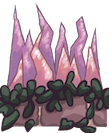
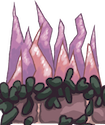
fixed spikes

diff --git a/core/src/entities/Spikes.java b/core/src/entities/Spikes.java
@@ -21,42 +21,49 @@ public class Spikes extends PolygonObstacle {
         int num;
         float dist;
         float sc;
+        float scy;
+        float scx;
         switch (direction) {
             case "up":
-                num = (int) (getWidth() * drawScale.x / texture.getRegionWidth());
+
+                scy = 1.2f * drawScale.y / texture.getRegionHeight();
+                num = (int) (getWidth() * drawScale.x / (texture.getRegionWidth() * scy));
                 dist = getWidth() * drawScale.x / num;
-                sc = dist / texture.getRegionWidth();
+                scx = dist / (texture.getRegionWidth() * scy);
                 num = num == 0 ? 1 : num;
                 for (int i = 0; i < num; i++)
                     canvas.draw(texture, Color.WHITE, 0, 0, getX() * drawScale.x + i * dist,
-                            getY() * drawScale.y, getAngle(), sc, .6f);
+                            getY() * drawScale.y, getAngle(), scx*scy, scy);
                 break;
             case "down":
-                num = (int) (getWidth() * drawScale.x / texture.getRegionWidth());
-                num = num == 0 ? 1 : num;
+                scy = 1.2f * drawScale.y / texture.getRegionHeight();
+                num = (int) (getWidth() * drawScale.x / (texture.getRegionWidth() * scy));
                 dist = getWidth() * drawScale.x / num;
-                sc = dist / texture.getRegionWidth();
+                scx = dist / (texture.getRegionWidth() * scy);
+                num = num == 0 ? 1 : num;
                 for (int i = 0; i < num; i++)
                     canvas.draw(texture, Color.WHITE, 0, 0, getX() * drawScale.x + i * dist,
-                            getY() * drawScale.y, getAngle(), -sc, -.6f);
+                            (getY() + 1) * drawScale.y, getAngle(), scx*scy, -scy);
                 break;
             case "right":
-                num = (int) (getHeight() * drawScale.y / texture.getRegionHeight());
-                num = num == 0 ? 1 : num;
+                scx = 1.2f * drawScale.x / texture.getRegionWidth();
+                num = (int) (getHeight() * drawScale.y / (texture.getRegionHeight() * scx));
                 dist = getHeight() * drawScale.y / num;
-                sc = dist / texture.getRegionHeight();
+                scy = dist / (texture.getRegionHeight() * scx);
+                num = num == 0 ? 1 : num;
                 for (int i = 0; i < num; i++)
-                    canvas.draw(texture, Color.WHITE, 0, 0, getX() * drawScale.x,
-                            getY() * drawScale.y + i * dist, getAngle(), .6f, sc);
+                    canvas.draw(texture, Color.WHITE, 0, 0, (getX()) * drawScale.x,
+                            getY() * drawScale.y + i * dist, getAngle(), scx, scy*scx);
                 break;
             case "left":
-                num = (int) (getHeight() * drawScale.y / texture.getRegionHeight());
-                num = num == 0 ? 1 : num;
+                scx = 1.2f * drawScale.x / texture.getRegionWidth();
+                num = (int) (getHeight() * drawScale.y / (texture.getRegionHeight() * scx));
                 dist = getHeight() * drawScale.y / num;
-                sc = dist / texture.getRegionHeight();
+                scy = dist / (texture.getRegionHeight() * scx);
+                num = num == 0 ? 1 : num;
                 for (int i = 0; i < num; i++)
-                    canvas.draw(texture, Color.WHITE, 0, 0, getX() * drawScale.x,
-                            getY() * drawScale.y + i * dist, getAngle(), -.6f, -sc);
+                    canvas.draw(texture, Color.WHITE, 0, 0, (getX()+1) * drawScale.x,
+                            getY() * drawScale.y + i * dist, getAngle(), -scx, scy*scx);
                 break;
         }
 

diff --git a/core/src/root/GameMode.java b/core/src/root/GameMode.java
@@ -1569,36 +1569,38 @@ public class GameMode extends Mode implements Screen {
         float ypos = player.getY() * scale.y > 240 ? player.getY() * scale.y : 240;
 
 
-        System.out.println("ypos" + ypos + "current camera" + lastpos.y);
+    //    System.out.println("ypos" + ypos + "current camera" + lastpos.y);
         ypos = ypos > 700 ? 700: ypos;
-
-        switch (direction){
-            case 1: if (lastpos.y > ypos -20) {
-                direction = 0;
-            }else {
-                canvas.moveCamera(xpos, lastpos.y +6);
-                lastpos = new Vector2(xpos, lastpos.y +6 );
-            }
-                break;
-            case -1: if (lastpos.y < ypos + 20) {
-                direction = 0;
-            }else {
-                canvas.moveCamera(xpos, lastpos.y -6);
-                lastpos = new Vector2(xpos, lastpos.y -6);
-            }
-            default: canvas.moveCameraX(xpos);
-        }
-
-        if (ypos >lastpos.y + 120) {
-            direction = 1;
-//                    canvas.moveCamera(xpos, lastpos.y +2);
-//                    lastpos = new Vector2(xpos, lastpos.y +2 );
-        }else if (ypos < lastpos.y -80)  {
-            direction = -1;
-//                    canvas.moveCamera(xpos, lastpos.y-2);
-//                    lastpos = new Vector2(xpos,   lastpos.y - 2 );
-        }
-  //      canvas.moveCamera(xpos, ypos);
+/**
+ * code for lazy follow camera
+ */
+//        switch (direction){
+//            case 1: if (lastpos.y > ypos -20) {
+//                direction = 0;
+//            }else {
+//                canvas.moveCamera(xpos, lastpos.y +4);
+//                lastpos = new Vector2(xpos, lastpos.y +4 );
+//            }
+//                break;
+//            case -1: if (lastpos.y < ypos + 20) {
+//                direction = 0;
+//            }else {
+//                canvas.moveCamera(xpos, lastpos.y -4);
+//                lastpos = new Vector2(xpos, lastpos.y -4);
+//            }
+//            default: canvas.moveCameraX(xpos);
+//        }
+//
+//        if (ypos >lastpos.y + 120) {
+//            direction = 1;
+////                    canvas.moveCamera(xpos, lastpos.y +2);
+////                    lastpos = new Vector2(xpos, lastpos.y +2 );
+//        }else if (ypos < lastpos.y -80)  {
+//            direction = -1;
+////                    canvas.moveCamera(xpos, lastpos.y-2);
+////                    lastpos = new Vector2(xpos,   lastpos.y - 2 );
+//        }
+        canvas.moveCamera(xpos, ypos);
 
 
     }
